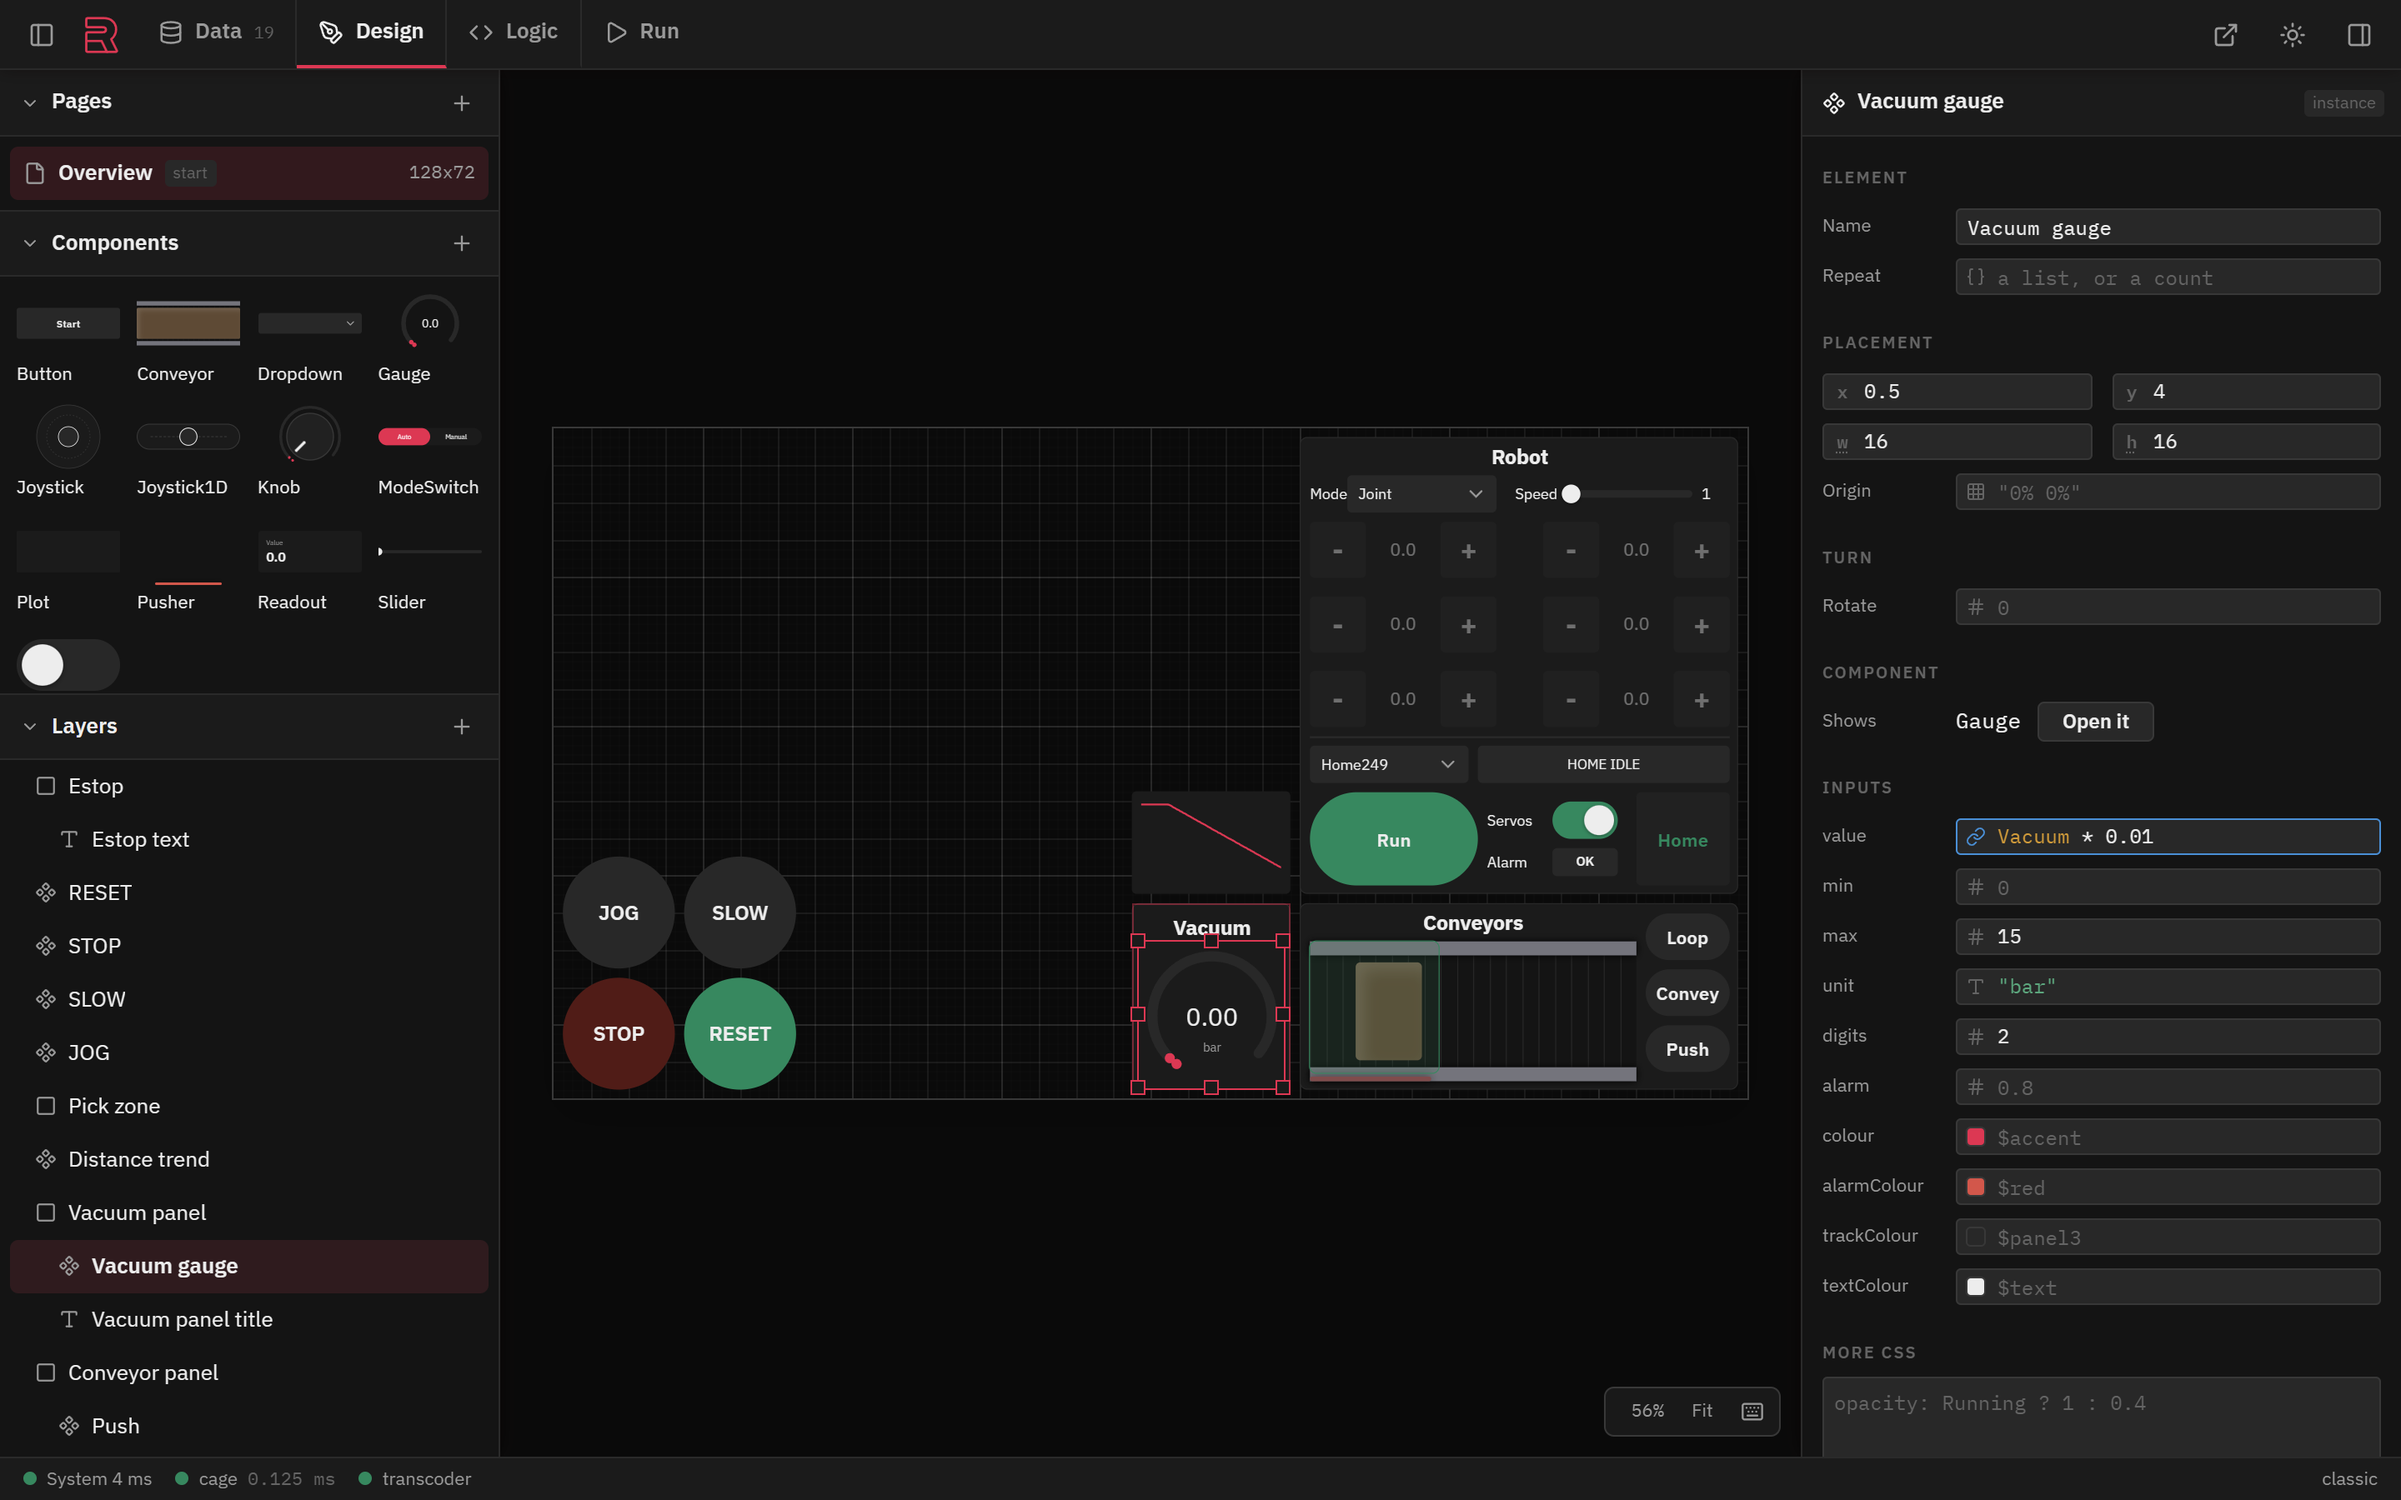
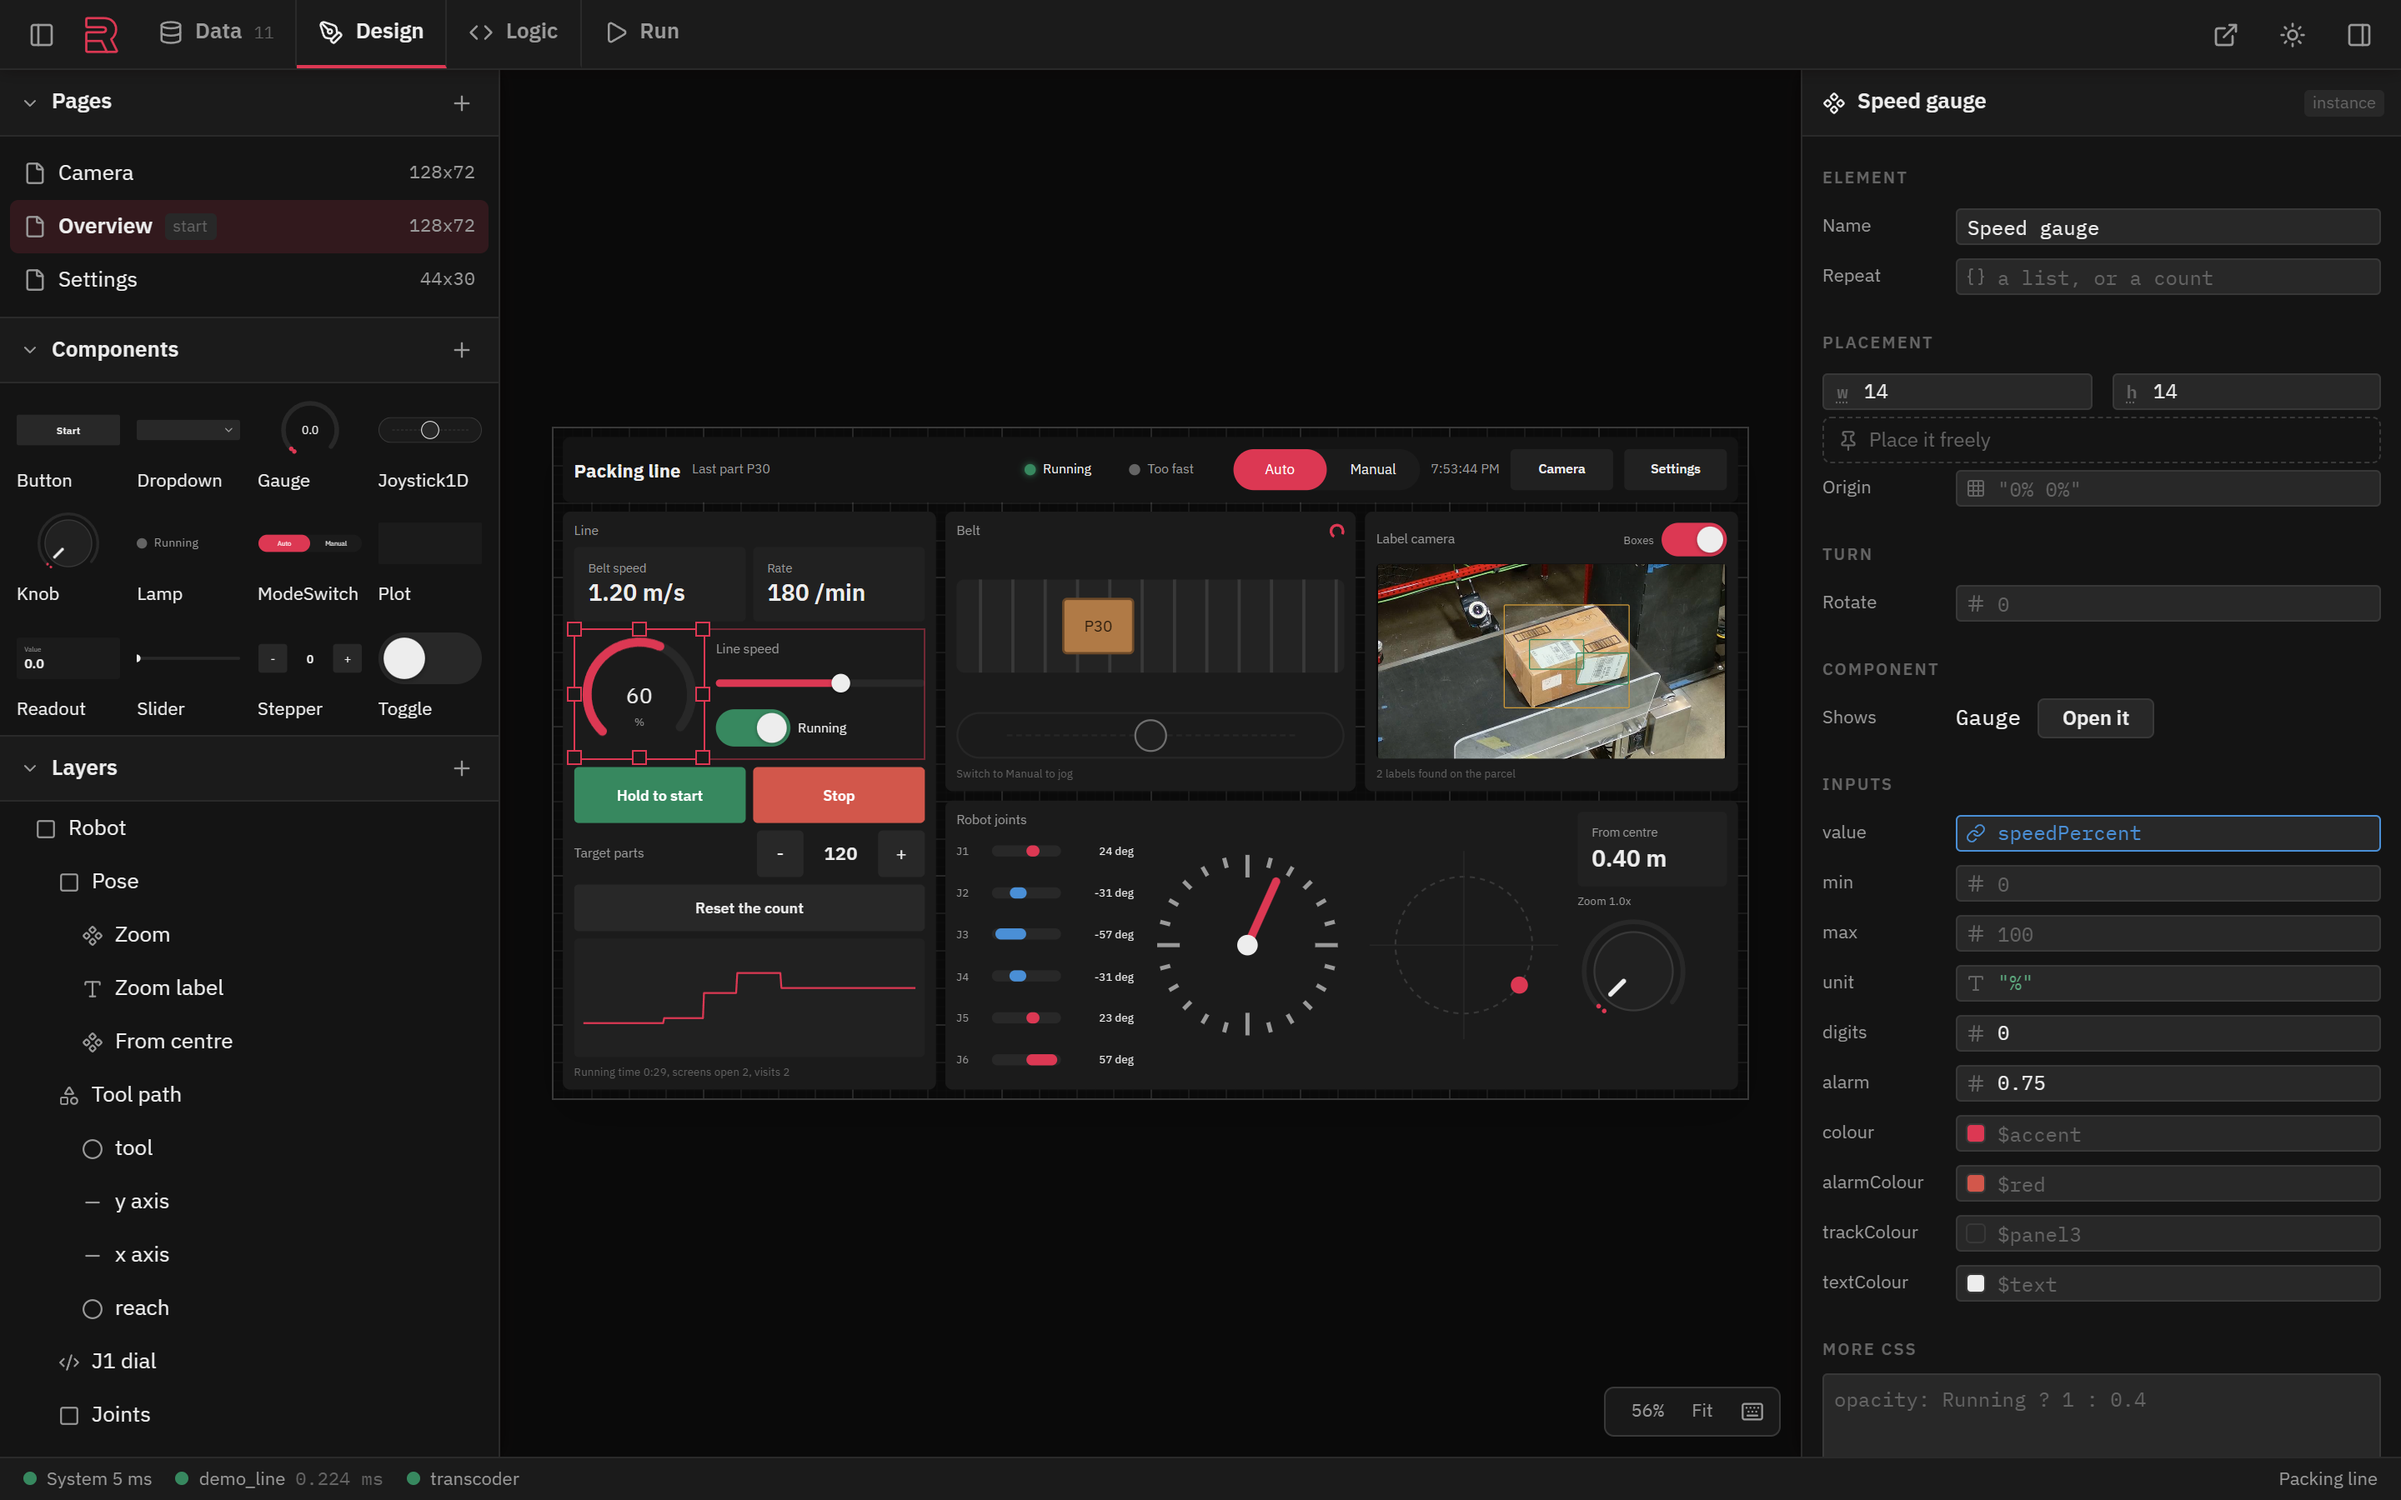
Show the packing line in the readme screenshots

diff --git a/README.md b/README.md
@@ -4,9 +4,9 @@ A GUI for designing safe, fast and powerful HMIs and apps easily. Design and dep
 interface in the web while the logic runs reliably in a native backend. Supports streaming
 data over WebSocket or WebRTC.
 
-![The editor, designing a robot cell's overview page](docs/editor.png)
+![The editor, designing the packing line example's overview page](docs/editor.png)
 
-![The finished page on an operator's screen, a job running](docs/page.png)
+![The finished page on an operator's screen, the line running](docs/page.png)
 
 ## Install
 
